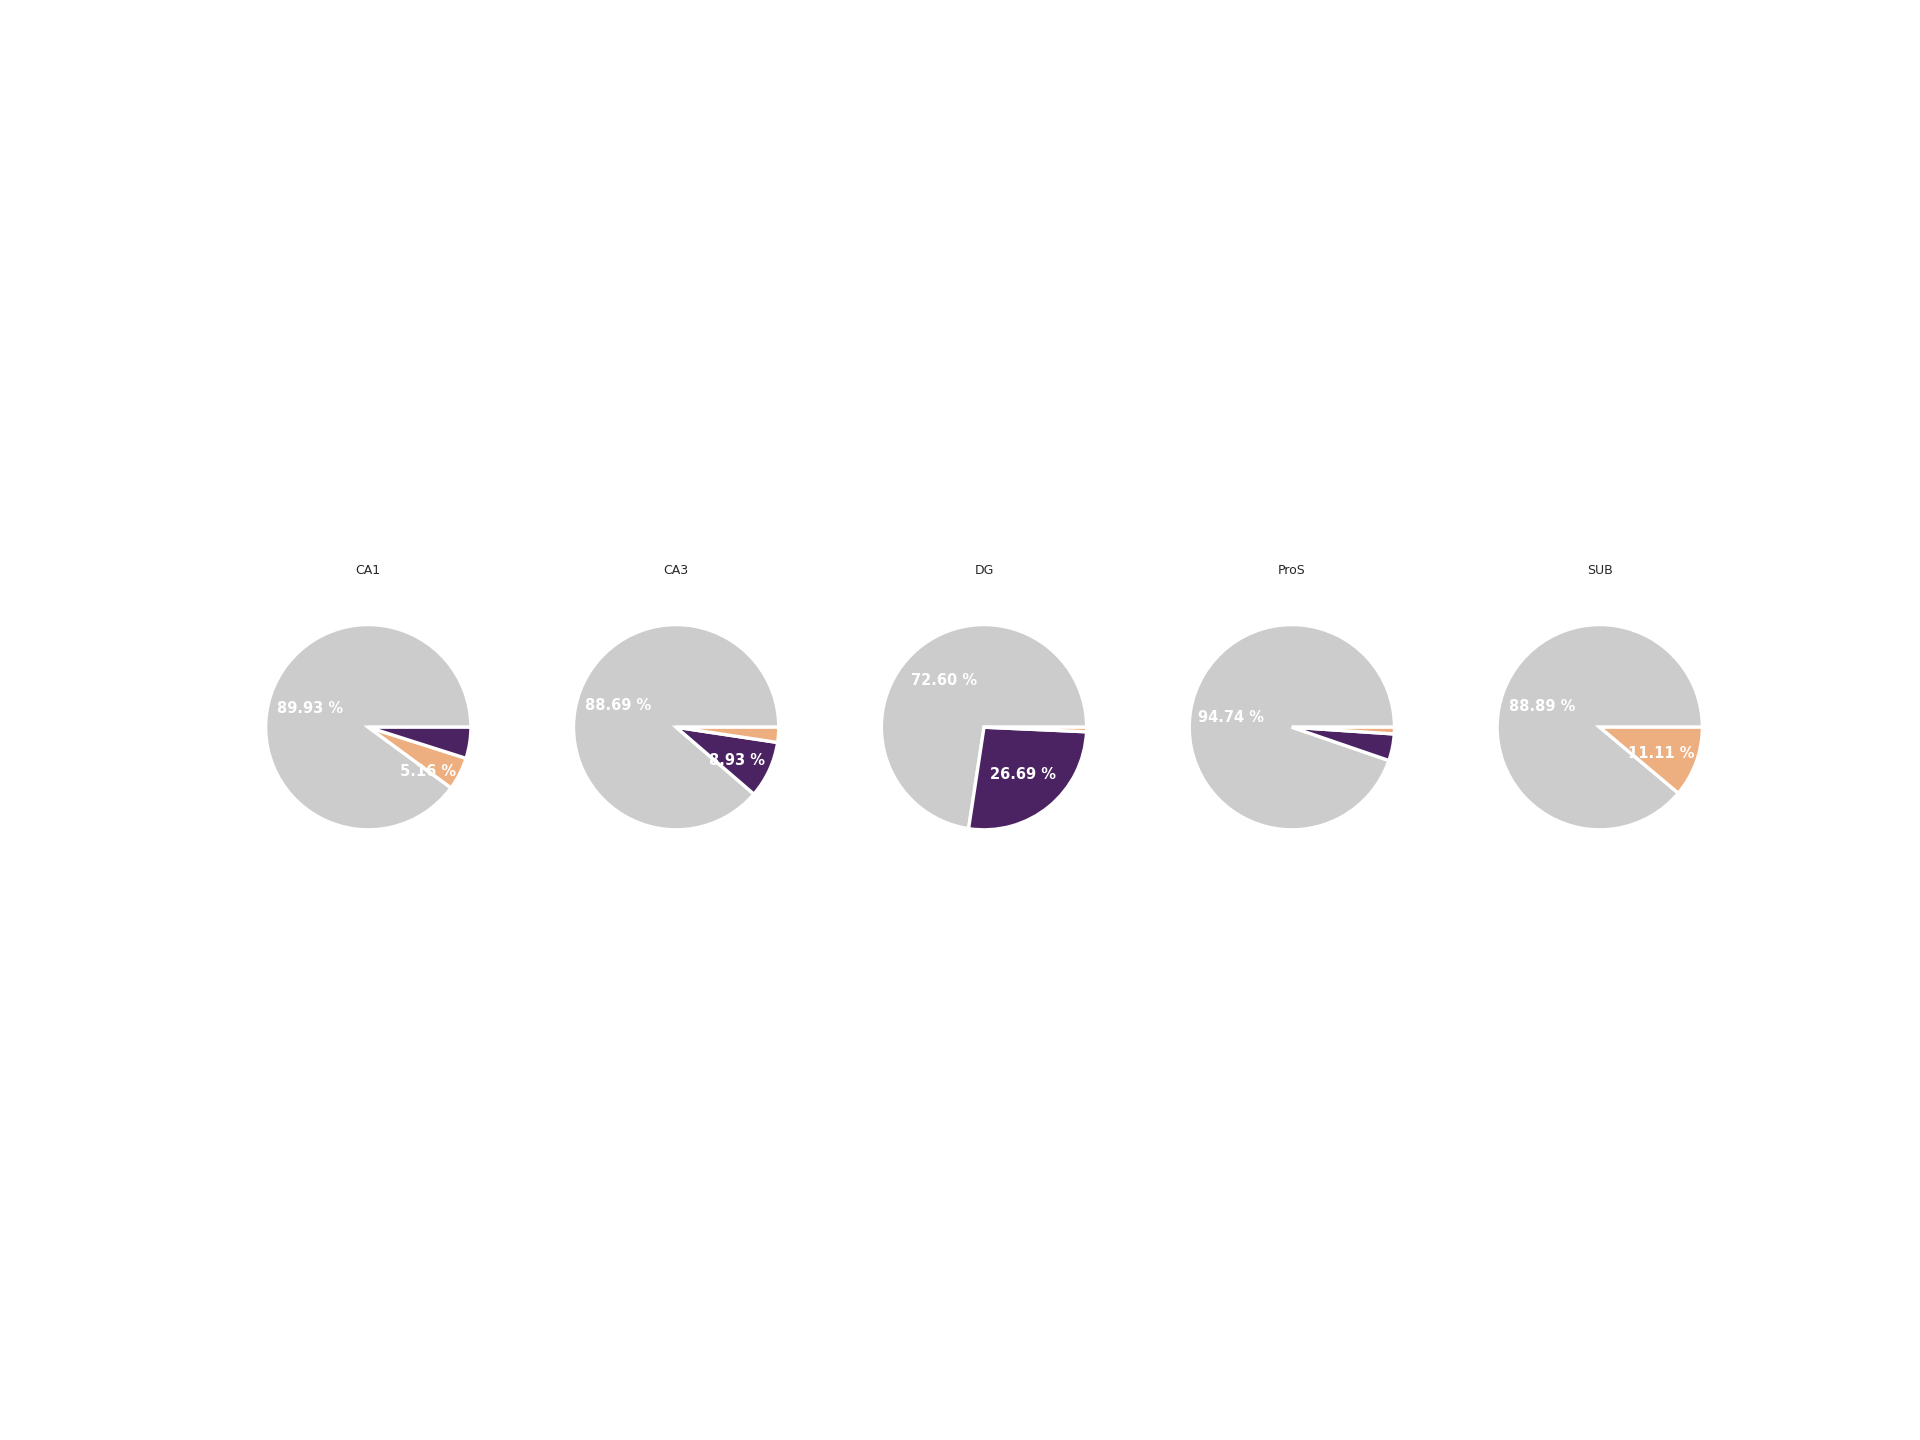
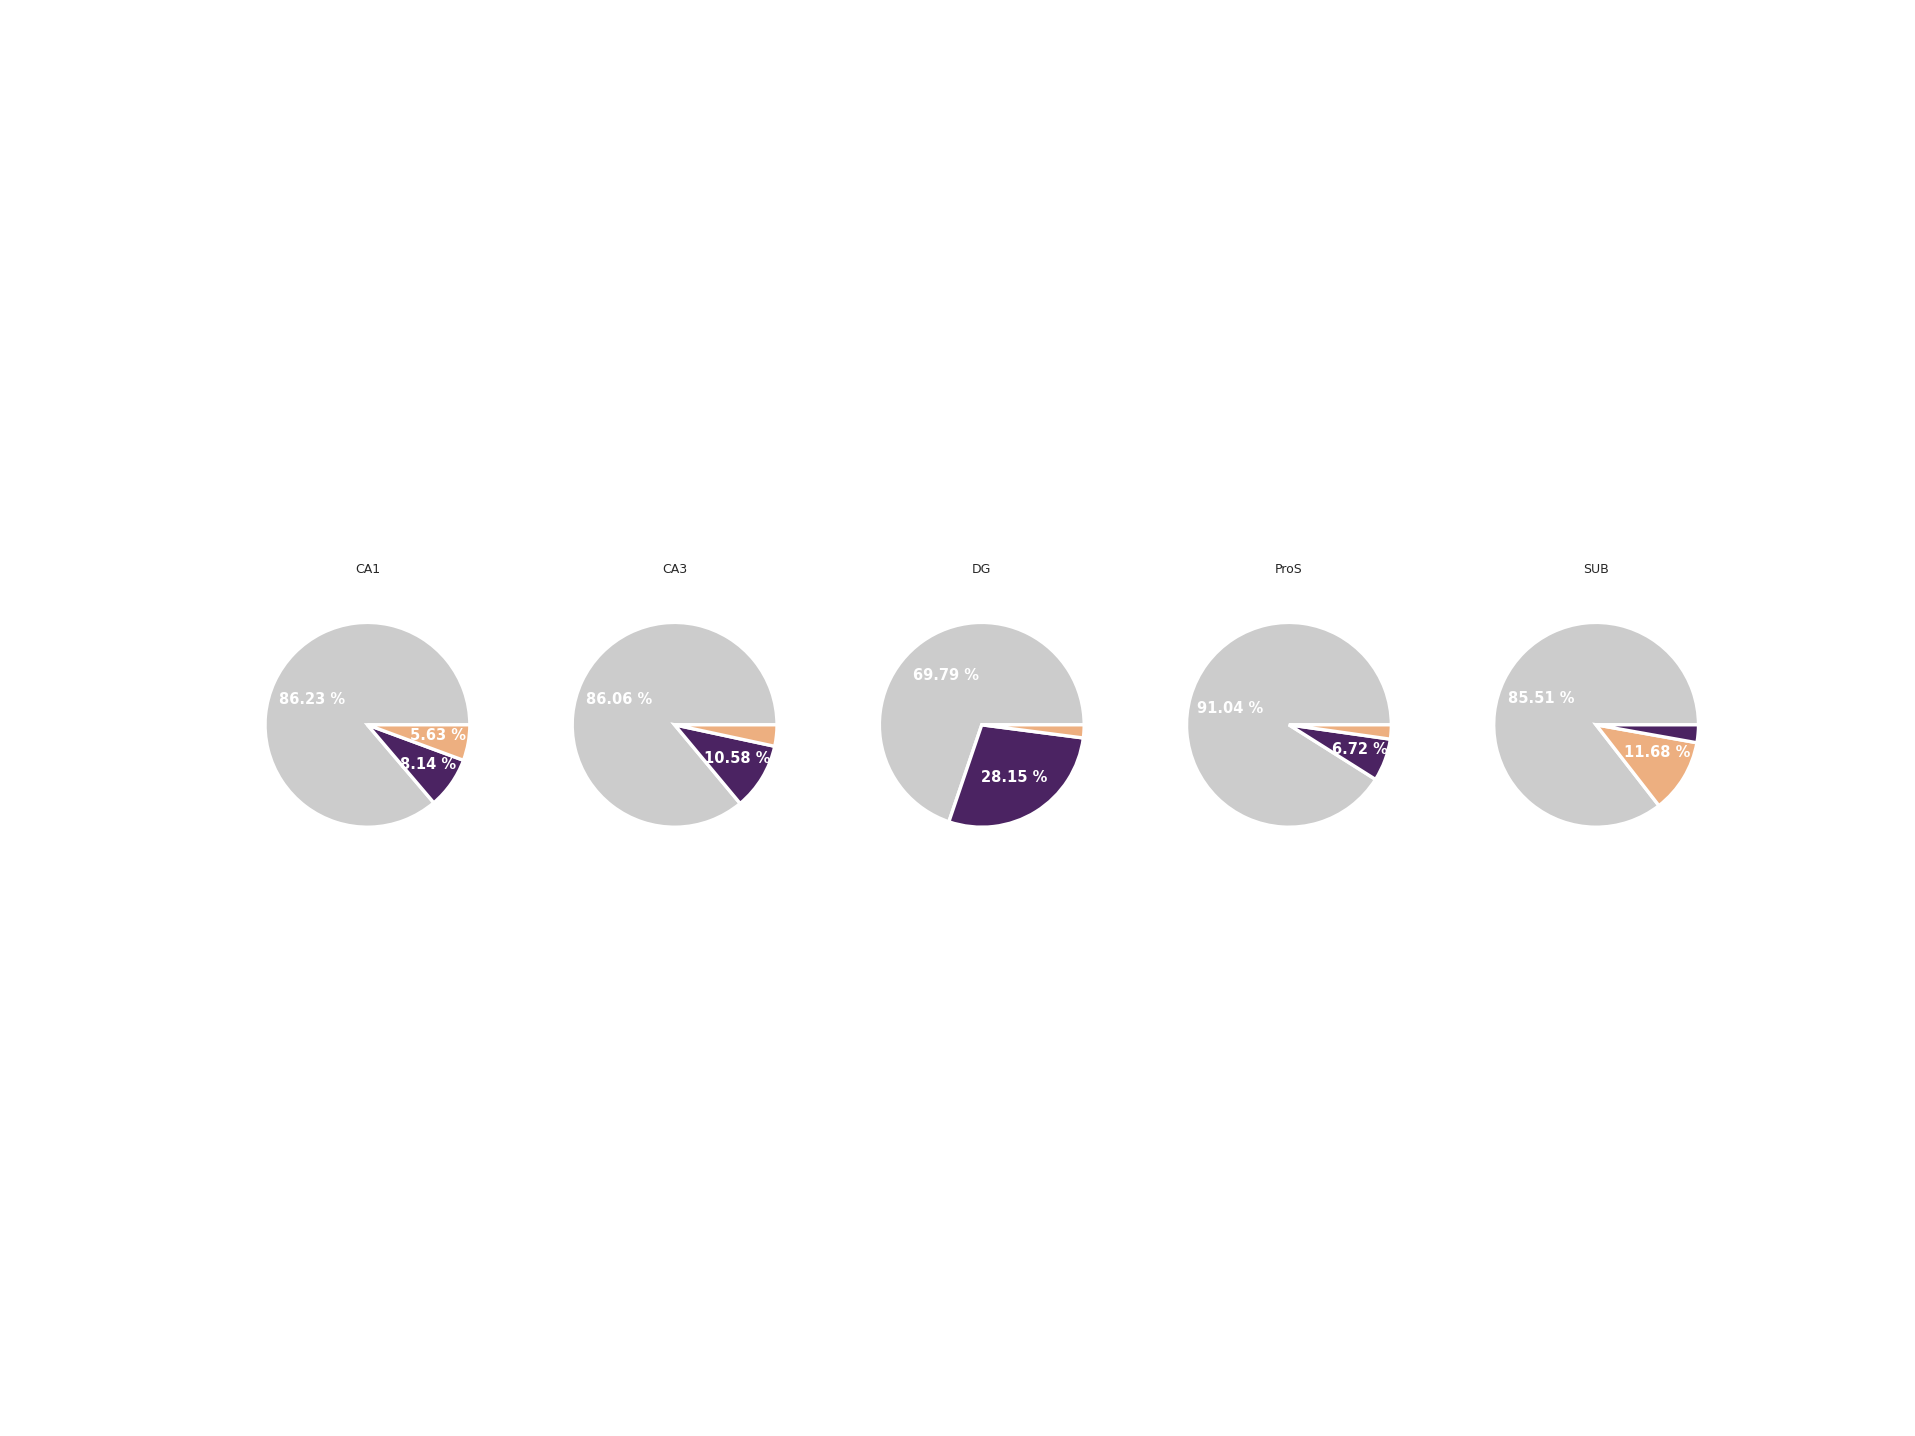
update

diff --git a/Figures/Supplementary/Supplementary_Figure_pieplots_preferred_modulation.py b/Figures/Supplementary/Supplementary_Figure_pieplots_preferred_modulation.py
@@ -11,7 +11,8 @@ pylustrator.start()
 with open(f"{output_folder_figures_calculations}/temp_data_figure_5.pkl", 'rb') as f:
     summary_units_df_sub = dill.load(f)
 
-data = pd.DataFrame(summary_units_df_sub[(summary_units_df_sub['Firing rate (0-120 ms) medial']>minimum_firing_rate_hz )&
+data = pd.DataFrame(summary_units_df_sub[((summary_units_df_sub['Firing rate (0-50 ms) medial']>minimum_firing_rate_hz) |
+                                                        (summary_units_df_sub['Firing rate (0-50 ms) lateral']>minimum_firing_rate_hz))&
                      (summary_units_df_sub['Parent brain region']=='HPF' )].groupby('Brain region')['Ripple type engagement'].value_counts())
 
 fig, axs = plt.subplots(1,5)
@@ -33,11 +34,12 @@ for q, area in zip(range(5), data.index.get_level_values('Brain region').unique(
 #% start: automatic generated code from pylustrator
 plt.figure(1).ax_dict = {ax.get_label(): ax for ax in plt.figure(1).axes}
 import matplotlib as mpl
-plt.figure(1).axes[0].texts[3].set_position([0.583121, -0.428003])
-plt.figure(1).axes[1].texts[3].set_position([0.593053, -0.325041])
-plt.figure(1).axes[3].texts[3].set_position([0.696500, -0.214948])
+plt.figure(1).axes[0].texts[3].set_position([0.590624, -0.378913])
+plt.figure(1).axes[0].texts[5].set_position([0.686082, -0.096765])
+plt.figure(1).axes[1].texts[3].set_position([0.608963, -0.325041])
+plt.figure(1).axes[3].texts[3].set_position([0.696500, -0.230858])
 plt.figure(1).axes[4].texts[3].set_position([0.597037, -0.259074])
 #% end: automatic generated code from pylustrator
-#plt.show()
+plt.show()
 
 plt.savefig(f"{output_folder_supplementary}/Supplementary_Figure_19", dpi=300)

diff --git a/Manuscript/results.py b/Manuscript/results.py
@@ -211,7 +211,7 @@ results = {"Distance explains most of the ripple strength correlation variabilit
            f'difference for either medial or lateral ripples. Our analysis revealed that the majority of neurons did '
            f'not display a strong preference ({round(autopcts[0]*100,2)} %), whereas {round(autopcts[1]*100,2)} % of neurons responded '
            f'preferentially to lateral ripples and {round(autopcts[2]*100,2)} % to medial ripples (Figure 5F). Hippocampal subfield, however, exhibited '
-           f'striking differences, specifically, SUB had a negligible proportion of neurons exhibiting a'
+           f'striking differences, specifically, SUB had a small proportion of neurons exhibiting a'
            f' preference for medial ripples, while DG exhibited the opposite pattern (Supplementary Figure 19). '
            f'These results suggest a fundamental difference between medial and lateral ripples in terms of their '
            f'engagement of brain regions, highlighting that these differences exist even before the ripples are detected. '
